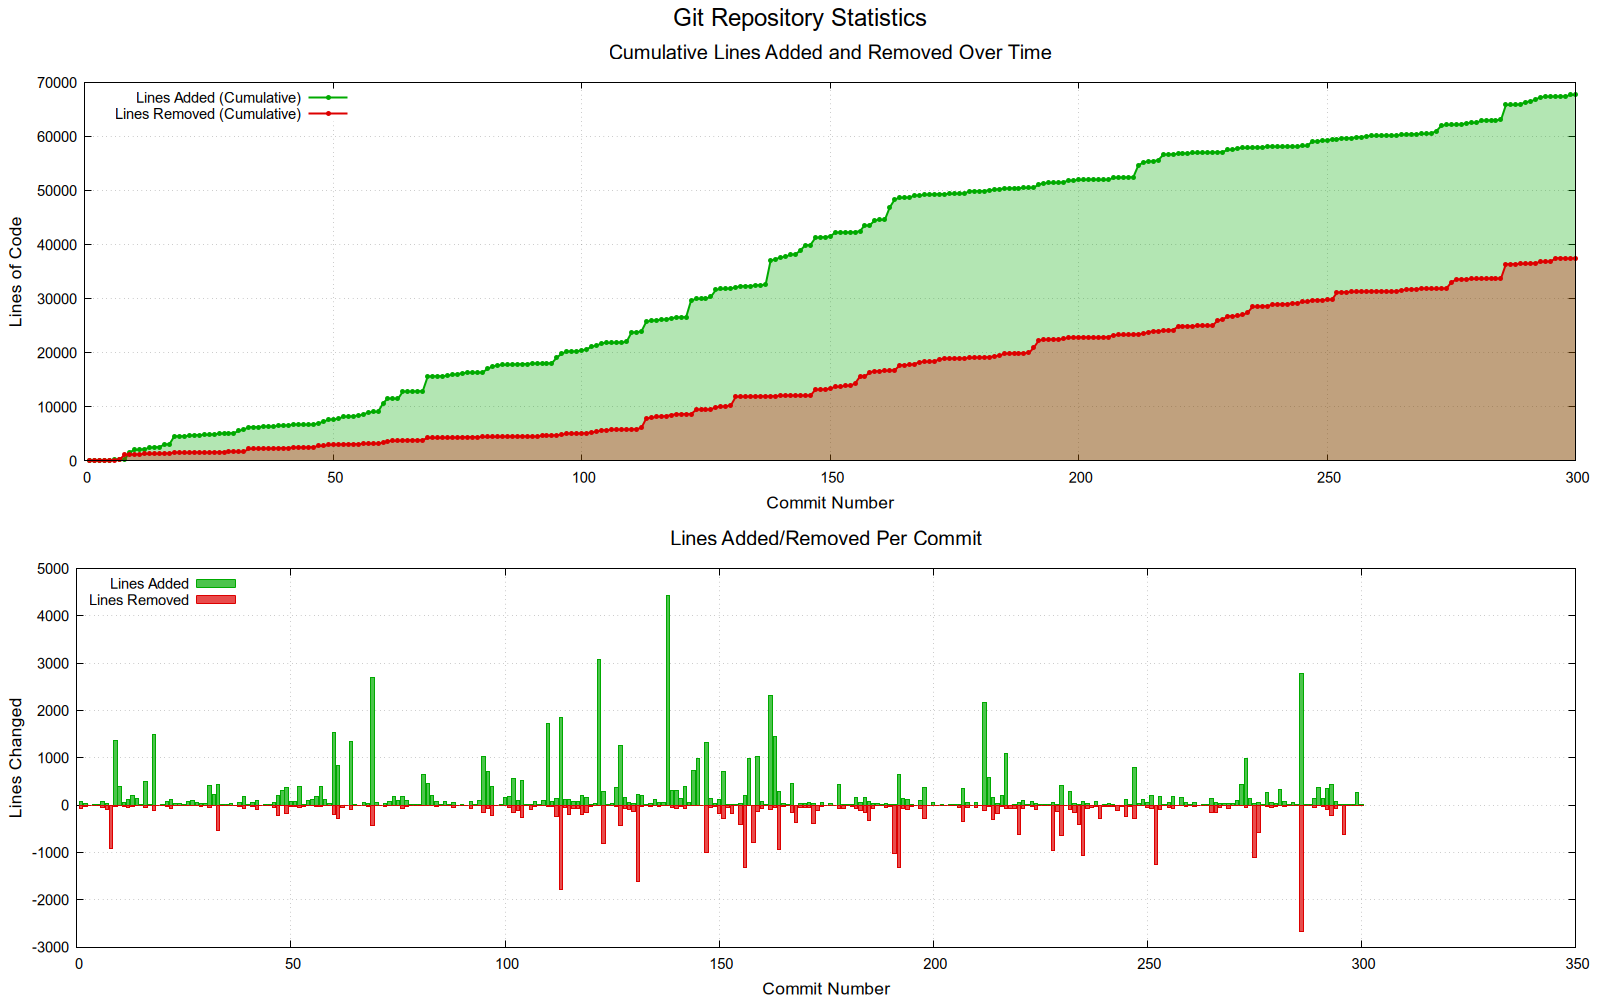
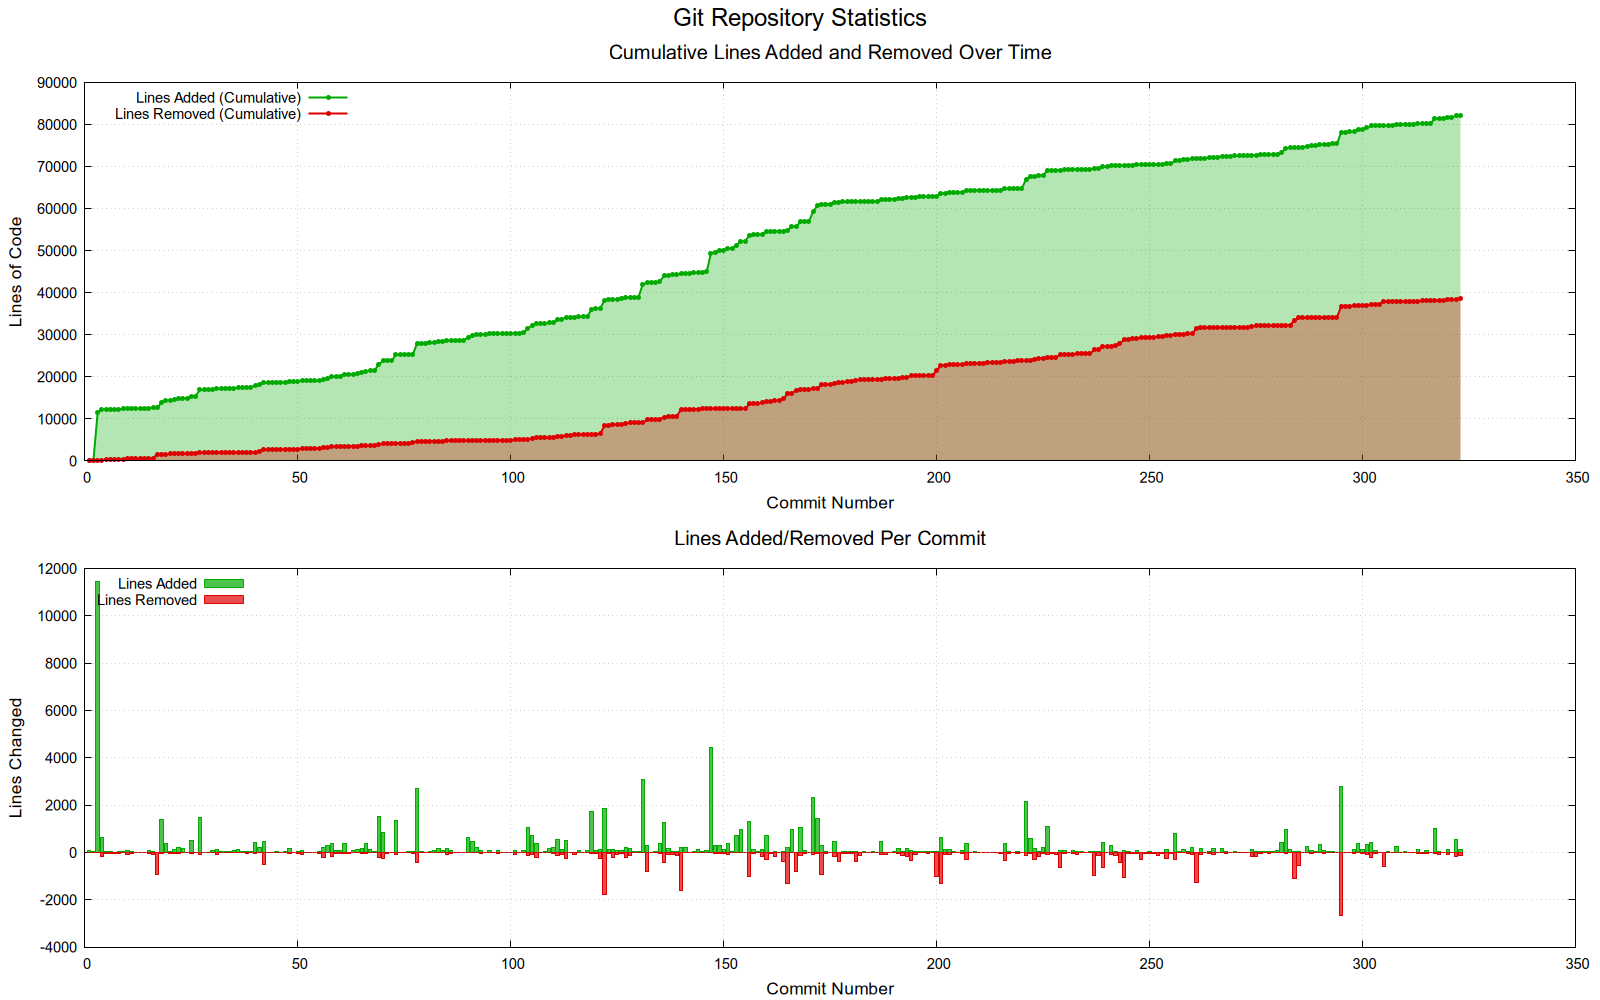
feat: Update repository statistics generation to save output directly to a fixed path

diff --git a/tools/repo-statistics/main.go b/tools/repo-statistics/main.go
@@ -123,15 +123,15 @@ func main() {
 	startDate := commits[0].Date
 	endDate := commits[len(commits)-1].Date
 
-	// Create secure temporary files for gnuplot output
-	outputFile, err := os.CreateTemp("", "repo_graph_*.png")
-	if err != nil {
-		fmt.Fprintf(os.Stderr, "Error creating output file: %v\n", err)
+	// Create output directory
+	outputDir := ".github/images"
+	if err := os.MkdirAll(outputDir, 0o755); err != nil {
+		fmt.Fprintf(os.Stderr, "Error creating output directory: %v\n", err)
 		os.Exit(1)
 	}
-	outputPath := outputFile.Name()
-	_ = outputFile.Close()
-	defer func() { _ = os.Remove(outputPath) }()
+
+	// Output to a fixed path that can be referenced in README
+	outputPath := filepath.Join(outputDir, "repo_statistics.png")
 
 	summaryFile, err := os.CreateTemp("", "repo_stats_summary_*.txt")
 	if err != nil {
